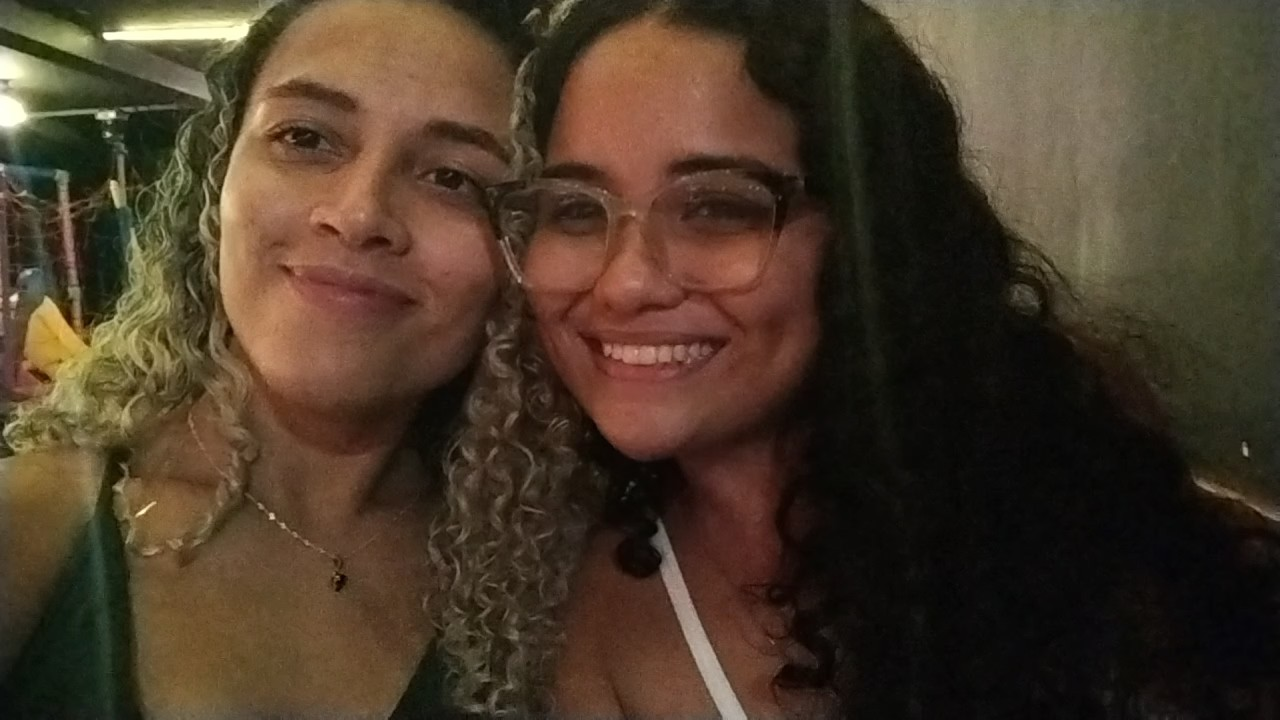
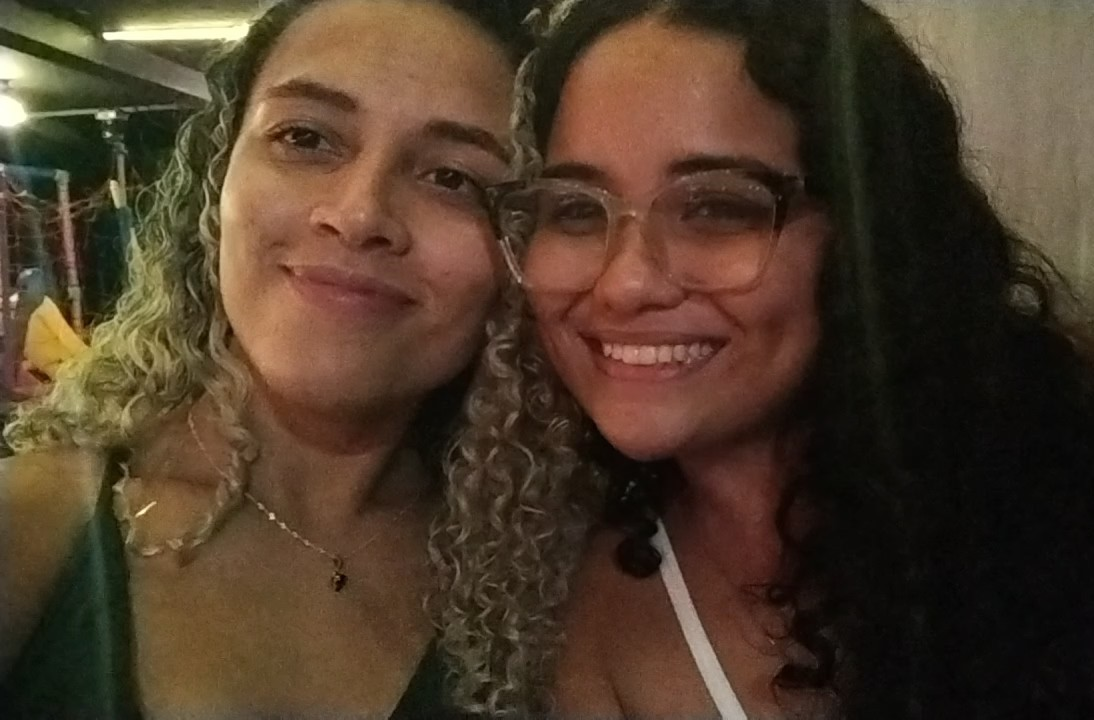
add fotos galeria, add js, mudança na responsividade

diff --git a/src/css/style.css b/src/css/style.css
@@ -143,5 +143,38 @@ aside span {
 
 aside span .coracao {
     color: #ff1493;
-    font-size: 1.2rem;
+}
+
+/* galeria de fotos */
+.content_galeria {
+    display: flex;
+    flex-direction: column;
+    align-items: center;
+    /* gap: 40px; */
+    margin-top: 100px;
+}
+
+.content_galeria h1 {
+    font-size: 2.5rem;
+    margin-bottom: 4px;
+}
+
+.content_galeria p {
+    color: #9e9ea0;
+    margin-bottom: 40px;
+}
+
+.galeria {
+    display: grid;
+    grid-template-columns: repeat(2, minmax(150px, 1fr));
+    grid-template-rows: repeat(auto-fit, 1fr);
+    gap: 10px;
+}
+
+.galeria img {
+    width: 100%;
+    height: 150px;
+    object-fit: cover;
+    border-radius: 8px;
+    /* object-position: center; */
 }

diff --git a/index.html b/index.html
@@ -31,8 +31,7 @@
             <strong>Feliz Dia dos Namorados❣</strong>
         </p>
 
-        <span><span class="coracao">❤❤</span> Oficial desde 19 de setembro 2024 <span
-                class="coracao">❤❤</span></span>
+        <span><span class="coracao">❤❤</span> Oficial desde 19 de setembro 2024 <span class="coracao">❤❤</span></span>
     </aside>
 
     <nav>
@@ -359,7 +358,17 @@
                 juntas, e espero comemorar muitos outros. Eu te amuu infinitamente para todo sempre❣
             </p>
         </div>
+
+        <div class="content_galeria">
+            <h1>Nossa Galeria❣</h1>
+            <p>Um pouco mais do nosso amor..</p>
+            <div class="galeria" id="galeria"></div>
+        </div>
     </nav>
+
+    <!-- <div class="galeria" id="galeria"></div> -->
+
+    <script src="src/js/index.js"></script>
 </body>
 
 </html>

diff --git a/src/css/responsividade.css b/src/css/responsividade.css
@@ -52,4 +52,14 @@
     .memory .img-left {
         object-position: 32% 45%;
     }
+
+    .galeria {
+        display: grid;
+        grid-template-columns: repeat(2, minmax(210px, 1fr));
+    }
+
+    .galeria img {
+        height: 210px;
+        object-position: center;
+    }
 }

diff --git a/src/js/index.js b/src/js/index.js
@@ -1,0 +1,8 @@
+const fotos = Array.from(
+    { length: 22 },
+    (_, i) => `src/image/ft_galeria${i + 1}.jpeg`
+);
+
+document.getElementById("galeria").innerHTML = fotos
+    .map(foto => `<img src="${foto}" alt="Foto da galeria">`)
+    .join("");